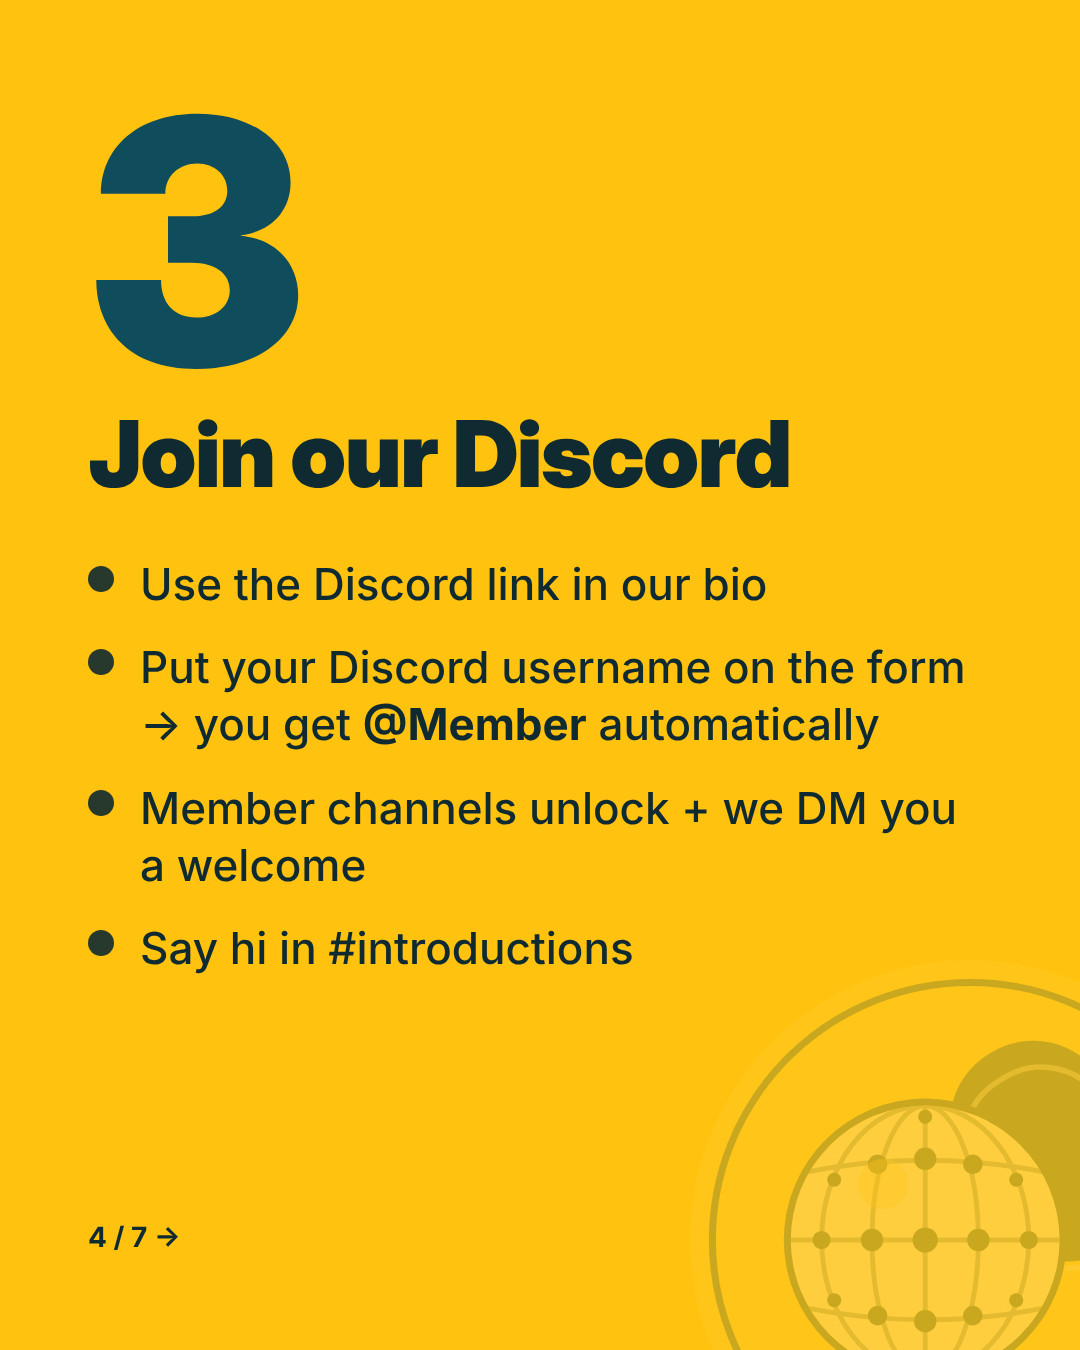
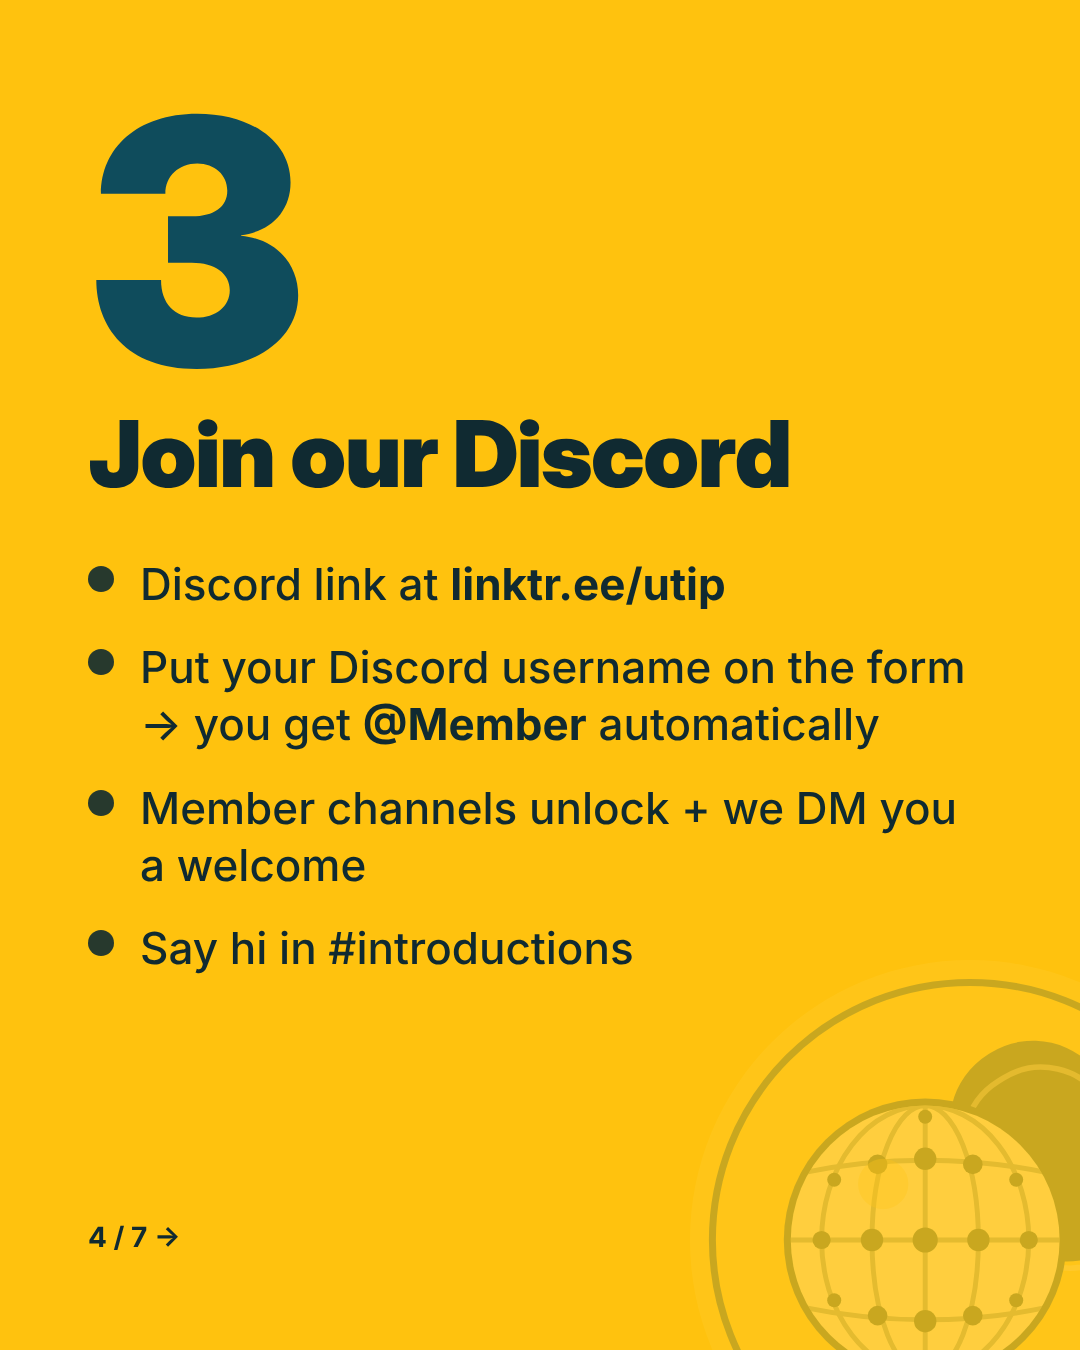
Show linktr.ee/utip on posts and stories; captions point to Linktree
Claude-Session: https://claude.ai/code/session_01F5BEbVoP4rHxLRU2d3RyEz

Changed region(s): [[0.3056, 0.4044, 0.7028, 0.4667], [0.1528, 0.4044, 0.275, 0.4667]]

diff --git a/design/templates/post-onboard.html b/design/templates/post-onboard.html
@@ -26,19 +26,19 @@
   <img class="peek faint" src="../../brand/logo-icon.svg" alt="" style="width:560px;height:560px;right:-170px;bottom:-170px">
   <div class="step">2</div><div class="h2">Fill out the member form</div>
   <div class="ticks"><div>Name, UT EID, email, phone</div><div>Your Discord username</div><div>Opt in to <b>text alerts</b> &mdash; we text you when a new event goes up (reply STOP anytime)</div></div>
-  <div class="link">Link in bio &rarr; &ldquo;Member form&rdquo;</div>
+  <div class="link"><span data-href="club.links.hub"></span> &rarr; &ldquo;Become a member&rdquo;</div>
   <div class="foot"><span>3 / 7 &rarr;</span></div>
 </section>
 <section class="slide bg-teal" data-slide="s3">
   <img class="peek faint" src="../../brand/logo-icon.svg" alt="" style="width:560px;height:560px;right:-170px;bottom:-170px">
   <div class="step">3</div><div class="h2">Join our Discord</div>
-  <div class="ticks"><div>Use the Discord link in our bio</div><div>Put your Discord username on the form &rarr; you get <b>@Member</b> automatically</div><div>Member channels unlock + we DM you a welcome</div><div>Say hi in #introductions</div></div>
+  <div class="ticks"><div>Discord link at <b data-href="club.links.hub"></b></div><div>Put your Discord username on the form &rarr; you get <b>@Member</b> automatically</div><div>Member channels unlock + we DM you a welcome</div><div>Say hi in #introductions</div></div>
   <div class="foot"><span>4 / 7 &rarr;</span></div>
 </section>
 <section class="slide bg-ball" data-slide="s4">
   <img class="peek faint" src="../../brand/logo-icon.svg" alt="" style="width:560px;height:560px;right:-170px;bottom:-170px">
   <div class="step">4</div><div class="h2">RSVP on Luma</div>
-  <div class="ticks"><div>Every session &amp; social is on Luma</div><div>RSVP so we book enough courts &amp; paddles</div><div>Tap the link in our stories, or our calendar in bio</div></div>
+  <div class="ticks"><div>Every session &amp; social is on Luma</div><div>RSVP so we book enough courts &amp; paddles</div><div>Tap the link sticker in our stories, or the calendar at <b data-href="club.links.hub"></b></div></div>
   <div class="foot"><span>5 / 7 &rarr;</span></div>
 </section>
 <section class="slide bg-orange" data-slide="s5">
@@ -52,7 +52,7 @@
   <div class="kicker" style="color:var(--orange)">That&rsquo;s it</div>
   <div class="h1" style="margin:30px 0 40px">You&rsquo;re in.<br>See you on the court.</div>
   <div class="lead" style="max-width:700px">Questions? DM us or ask in Discord &mdash; an officer will help.</div>
-  <div style="margin-top:44px"><span class="pill teal">All links in bio &middot; <span data-k="club.handle"></span></span></div>
+  <div style="margin-top:44px"><span class="pill teal">All links: <span data-href="club.links.hub"></span></span></div>
   <div class="foot"><span>7 / 7</span></div>
 </section>
 </body></html>

diff --git a/design/templates/story.html b/design/templates/story.html
@@ -3,7 +3,7 @@
 <style>
 .slide { padding: 220px 90px 260px; }
 .sticker-zone { margin-top: auto; border: 6px dashed currentColor; border-radius: 40px; padding: 40px; text-align: center; font-weight: 800; font-size: 38px; opacity: .9; }
-.sticker-zone small { display: block; font-weight: 600; font-size: 26px; opacity: .8; margin-top: 8px; }
+.sticker-zone small { display: block; font-weight: 700; font-size: 36px; opacity: .8; margin-top: 8px; }
 .big-logo { width: 460px; height: 460px; margin: 0 auto 60px; display: block; }
 .ev-date { font-family: var(--display); font-weight: 900; font-size: 92px; line-height: 1; color: var(--ball); }
 .meta { font-size: 44px; font-weight: 600; margin: 16px 0; }
@@ -17,7 +17,7 @@
   <div class="h1" style="text-align:center">New club alert!</div>
   <div class="lead" style="text-align:center;margin-top:30px">International Pickleball at UT &mdash; weekly games, socials, and friends from everywhere.</div>
   <div class="lead" style="text-align:center;margin-top:30px;font-weight:800">Everyone welcome.</div>
-  <div class="sticker-zone">Place link sticker here<small>Tap to join the club</small></div>
+  <div class="sticker-zone">Tap the link to join<small data-href="club.links.hub"></small></div>
 </section>
 <!-- event story: filled from an event YAML by the pipeline -->
 <section class="slide bg-teal" data-slide="event">
@@ -28,7 +28,7 @@
   <div class="meta" data-k="event.time_label"></div>
   <div class="meta" data-k="event.location"></div>
   <div class="body" style="margin-top:36px" data-k="event.blurb"></div>
-  <div class="sticker-zone">RSVP &uarr; tap the Luma link<small>Tap the link sticker to save your spot</small></div>
+  <div class="sticker-zone">Tap the link to RSVP<small>or visit <span data-href="club.links.hub"></span></small></div>
 </section>
 <!-- highlight covers -->
 <section class="slide bg-orange" data-slide="hl-about"><div class="hicon"><img src="../../brand/logo-icon.svg" alt=""><b>ABOUT</b></div></section>

diff --git a/design/templates/post-welcome.html b/design/templates/post-welcome.html
@@ -68,7 +68,7 @@
   <div class="row"><span class="num bg-orange">1</span><span class="lead"><b>Fill out the member form</b> (2 min)</span></div>
   <div class="row"><span class="num bg-teal">2</span><span class="lead"><b>Join our Discord</b> &amp; say hi</span></div>
   <div class="row"><span class="num bg-ball">3</span><span class="lead"><b>RSVP on Luma</b> for this week</span></div>
-  <div style="margin-top:54px"><span class="pill teal">All links in bio &middot; <span data-k="club.handle"></span></span></div>
+  <div style="margin-top:54px"><span class="pill teal">All links: <span data-href="club.links.hub"></span></span></div>
   <div class="foot"><img src="../../brand/logo-icon.svg" alt=""><span>6 / 6</span></div>
 </section>
 </body></html>

diff --git a/design/templates/post-event.html b/design/templates/post-event.html
@@ -11,6 +11,6 @@
   <div class="h1" style="margin:30px 0 0;max-width:820px" data-k="event.title"></div>
   <div class="card"><div class="d" data-k="event.date_label"></div><div class="m" data-k="event.time_label"></div><div class="m" data-k="event.location"></div></div>
   <div class="body" style="margin-top:40px" data-k="event.blurb"></div>
-  <div class="foot"><span class="pill ball">RSVP on Luma &middot; link in bio &middot; <span data-k="club.handle"></span></span></div>
+  <div class="foot"><span class="pill ball">RSVP: <span data-href="club.links.hub"></span> &middot; tap the link in our story</span></div>
 </section>
 </body></html>

diff --git a/pipeline/announce.py b/pipeline/announce.py
@@ -43,7 +43,7 @@ def caption(ev, lab, handle):
             f"\U0001F4C5 {lab['date_label']} · {lab['time_label']}\n"
             f"\U0001F4CD {ev['location']}\n\n"
             f"{ev.get('blurb', '').strip()}\n\n"
-            f"RSVP on Luma — link in bio & in our story! International and domestic students all welcome. "
+            f"👉 RSVP: tap the link in our story, or go to linktr.ee/utip (link in bio). International and domestic students all welcome. "
             f"No experience needed.\n\n{tags}")
 
 

diff --git a/content/captions.md b/content/captions.md
@@ -20,7 +20,7 @@ with ··· → **Pin to your profile**. Pin the officer and get-on-board posts 
 > 🌱 Never played? Perfect. Beginners are very welcome.
 > 🤝 Domestic students: you're SO welcome. We're the "International" Pickleball Club because our founders are international students, not because it's only for us. If you want friends from around the world and love learning new cultures, this is your club.
 >
-> Join in 3 steps (links in bio):
+> Join in 3 steps. Everything is at 👉 linktr.ee/utip (link in bio):
 > 1⃣ Fill out the member form
 > 2⃣ Join our Discord
 > 3⃣ RSVP on Luma for this week
@@ -56,7 +56,7 @@ Fill in `design/data/officers.json` (+ photos in `design/data/photos/`) and re-r
 > 4. RSVP on Luma for every session and social
 > 5. Show up and play!
 >
-> All links in bio. Questions? DM us 💬
+> 👉 linktr.ee/utip (link in bio). Questions? DM us 💬
 >
 > #UTAustin #UTIP #pickleball #internationalstudents
 
